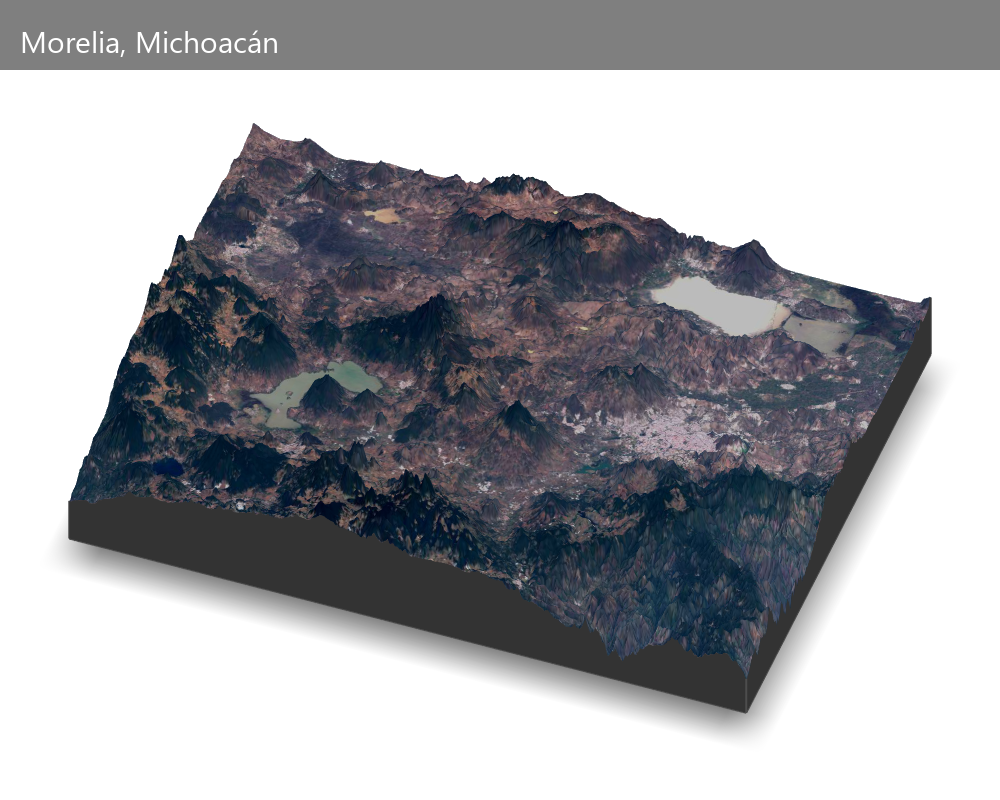
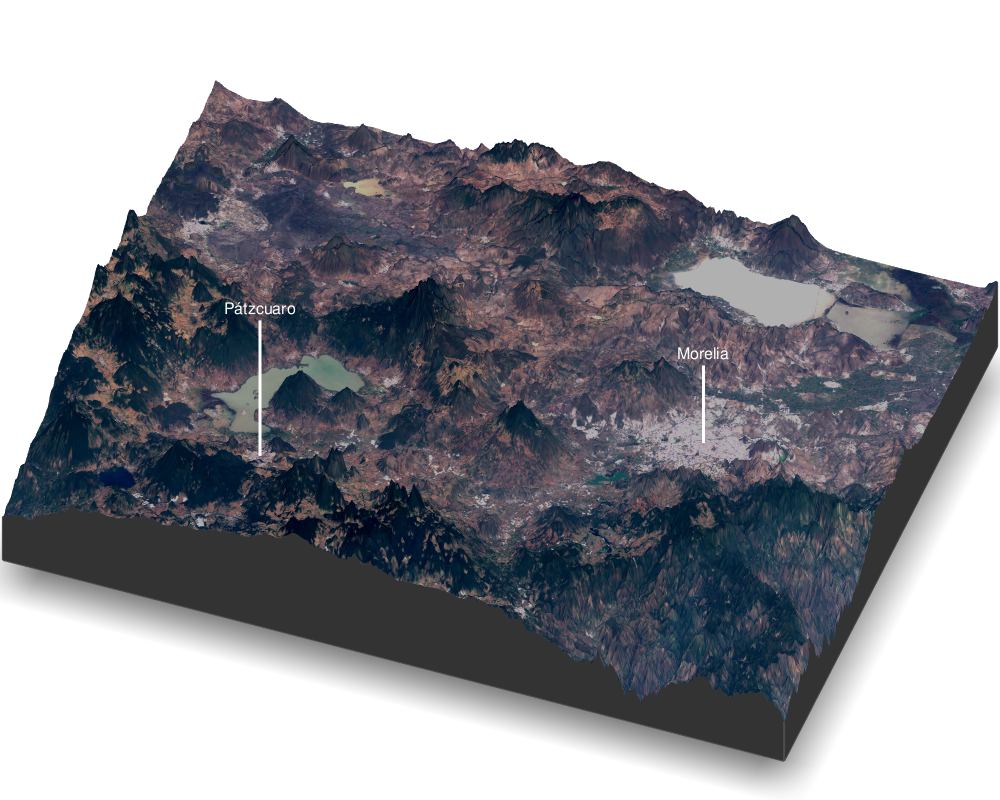
update rayshader post

diff --git a/_posts/2023-01-28-3d-maps-in-r_2.md b/_posts/2023-01-28-3d-maps-in-r_2.md
@@ -16,75 +16,89 @@ layout: splash
 
 # 3D maps in R
 
-The purpose of this post is to show how make a 3D map using `rayshader`. The idea is to use a DEM obtained from the SRTM mission (worldwide cover) or an available DEM from other National Institutions, such as Mexico's National Institute of Statistics and Geography to obtain a 3D relief of the area of interest; and an RGB composite to overlay it on the relief. The cloudless RGB mosaic I am using in this post was obtained from Landsat-8 images and was produced using Google Earth Engine. 
+The purpose of this post is to show how make a 3D map using `rayshader`. The idea is to use a DEM obtained from the SRTM mission (worldwide cover) or an available DEM from other National Institutions, such as Mexico's National Institute of Statistics and Geography to obtain a 3D relief of the area of interest; and an RGB composite to overlay it on the relief. The cloudless RGB mosaic I am using in this post was obtained from Landsat-8 images and was produced using Google Earth Engine. Finally, a shapefile with the locations of two urban settlements in the area is loaded to show their location.
 
-First load the libraries we are going to use
+First load the libraries we are going to use.
 
 {% highlight r %}
 library(rayshader)
 library(raster)
-library(jpeg)
+library(sf)
+library(dplyr)
 {% endhighlight %}
 
 Then, read the images.
 
 {% highlight r %}
 dem <- raster("dem_more.tif")
-
-# Clip raster range to 98 % (taken from GEE)
+locs <- st_read("Morelia.shp")
 rgb <- stack("rgb.tif")
 {% endhighlight %}
 
-The next step is going to clip the rgb image to the lower and upper 2 % quantiles so the image can be better appreciated and write it as JPEG.
+Then, clip the rgb image values to the lower and upper 3 % quantiles so the image can be better appreciated.
 
 {% highlight r %}
-# Clip values
+quants <- quantile(as.vector(values(rgb)), c(0.03, 0.97))
+
+# Clip values to lower and upper 3 %
 rgb[rgb < quants[1]] <- quants[1]
 rgb[rgb > quants[2]] <- quants[2]
-# Pass to new range (0-1) to write as jpeg
 rgb <- ((rgb - quants[1])* 1/ quants[2]) + 0
-# ((oldValueToConvert - oldScaleMin)* newScaleRange/ oldScaleRange) + newScaleMin
-
-writeJPEG(as.array(rgb), "out2.jpeg")
 {% endhighlight %}
 
-Next, let's import the rgb and convert the dem into a matrix.
+Next, let's transform the rgb into an array and the dem into matrix, so they can be rendered in 3D.
 
 {% highlight r %}
-rgb <- readJPEG("out2.jpeg")
-# plot(rgb)
-
-# Convert it to a matrix:
+rgb_array = as.array(rgb)
 dem_mat <-  raster_to_matrix(dem)
 {% endhighlight %}
 
-Afterward, let's do the 3d rendering with the dem and rgb layers and set additional parameters for the visualization. Since I am using an RGB, I am going to omit the step of showing and detecting water bodies. However, if you do not have an available RGB, you can use this to try to differentiate water bodies in the region of interest. Additionally, if you do not have an rgb composite, you can add some shadows to the dem make the result more realistic. These parts are commented in the script, but are left for future reference.
+Extract the coordinates of the two human settlements used as reference (as numbers) and drop the geometry. 
 
 {% highlight r %}
-dem_mat %>%
-  sphere_shade(texture = "bw") %>%
-  # add_water(detect_water(dem_mat),
-  #           color = "imhof1") %>%
-  # add_shadow(ray_shade(dem_mat, zscale = 3), 0.5) %>%
-  # add_shadow(ambient_shade(dem_mat), 0) %>%
-  add_overlay(rgb) |>
-  plot_3d(dem_mat, 
-          zscale = 12, 
-          fov = 0, 
-          theta = 20, 
-          zoom = 0.75, 
-          # azimut
-          phi = 45, 
-          windowsize = c(1000, 800))
+locs <- locs |>
+  mutate(x = st_coordinates(locs)[,1],
+         y = st_coordinates(locs)[,2]) |>
+  st_drop_geometry()
 {% endhighlight %}
 
-Finally, I am going to save a snapshot of the 3d model and setting some parameters.
+Afterward, do the 3d rendering with the rgb and dem layers and set additional parameters for the visualization. Subsequently, add the labels of the two localities.
 
 {% highlight r %}
-render_snapshot(filename = "Morelia3D",
-                title_text = "Morelia, Michoacán", 
-                title_color = "white", title_bar_color = "black",
-                title_font = "Helvetica", gravity = "North")
+rgb_array |>
+plot_3d(dem_mat, 
+        zscale = 12, 
+        fov = 0, 
+        theta = 20, 
+        zoom = 0.65, 
+        # azimut
+        phi = 45, 
+        windowsize = c(1000, 800)) 
+  render_label(dem_mat,
+               long = locs$x[1],
+               lat = locs$y[1],
+               # altitude = 120000,
+               zscale = 19,
+               extent = raster::extent(dem),
+               text = locs$Nombre[1],
+               linecolor = "white",
+               textcolor = "white")
+  render_label(dem_mat,
+               long = locs$x[2],
+               lat = locs$y[2],
+               # altitude = 120000,
+               zscale = 14,
+               extent = raster::extent(dem),
+               text = locs$Nombre[2],
+               linecolor = "white",
+               textcolor = "white")
+{% endhighlight %}
+
+Finally, save a snapshot of the 3d model.
+
+{% highlight r %}
+render_snapshot(filename = "Morelia3D.png",
+                gravity = "North")
 {% endhighlight %}
 
 The result:
@@ -92,4 +106,4 @@ The result:
 [![styled-image]({{ site.url }}{{ site.baseurl }}/assets/images/Morelia3D.png){: .align-center style="width: 60%;"}]({{ site.url }}{{ site.baseurl }}/assets/images/Morelia3D.png) 3D map of Patzcuaro and Morelia surroundings in Michoacán, Mexico.
 {: style="text-align: center; font-size:0.75em;"}
 
-If you are familiar with the surrounding of Morelia, Michoacán, you will immediatly recognize Patzcuaro and Cuitzeo lakes, as well as some unactive volcanoes, such as the Quinceo.
+If you are familiar with the surrounding of Morelia, Michoacán, Mexico, you will immediatly recognize Patzcuaro and Cuitzeo lakes, as well as some hills, such as the Quinceo.
